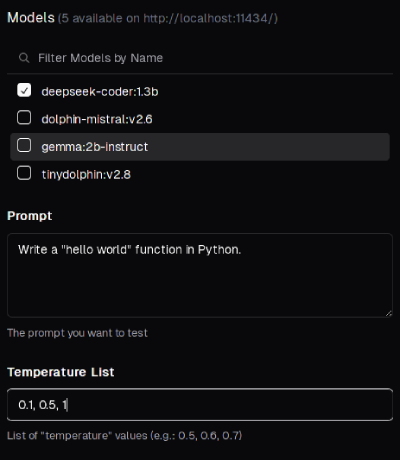
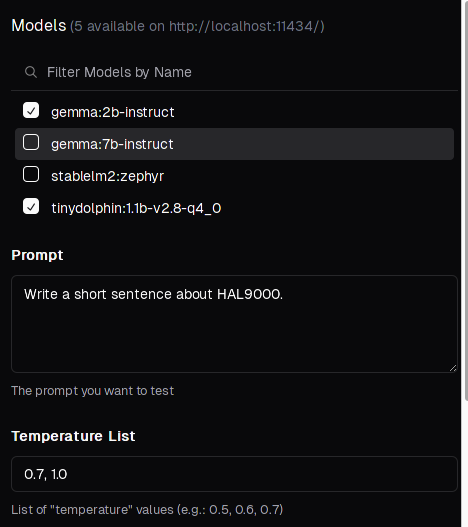
Updates README, adding new screenshots

diff --git a/README.md b/README.md
@@ -8,7 +8,9 @@ This project aims to automate the process of selecting the best model parameters
 
 It assumes the user has [Ollama](https://www.ollama.ai) installed and serving endpoints, either in `localhost` or in a remote server.
 
-![](./screenshots/main.png?raw=true)
+Here's a test for the prompt "Write a short sentence about HAL9000", tested on 2 models, using `0.7` and `1.0` as values for `temperature`:
+
+[<img src="./screenshots/main.png?raw=true" alt="Main Screenshot" width="720">](./screenshots/main.png?raw=true)
 
 (For a more in-depth look at an evaluation process assisted by this tool, please check https://dezoito.github.io/2023/12/27/rust-ollama-grid-search.html).
 
@@ -25,9 +27,10 @@ Check the [releases page](https://github.com/dezoito/ollama-grid-search/releases
 - Optionally output inference parameters and response metadata (inference time, tokens and tokens/s);
 - Refetching of single inference calls;
 - Model selection can be filtered by name;
+- List experimments which can be downloaded in JSON format;
 - Custom default parameters and system prompts can be defined in settings:
 
-![](./screenshots/settings.png?raw=true)
+[<img src="./screenshots/settings.png?raw=true" alt="Settings" width="720">](./screenshots/settings.png?raw=true)
 
 ## Grid Search (or something similar...)
 
@@ -35,29 +38,27 @@ Technically, the term "grid search" refers to iterating over a series of differe
 
 But the concept here is similar:
 
-Lets define a model, a prompt and some parameter combinations:
+Lets define a selection of models, a prompt and some parameter combinations:
 
-![](./screenshots/gridparams.png?raw=true)
+[<img src="./screenshots/gridparams.png?raw=true" alt="gridparams" width="400">](./screenshots/gridparams.png?raw=true)
 
-The prompt will be submitted once for each of the 3 parameter combinations, using `deepseek-coder:1.3b` to generate numbered responses like:
+The prompt will be submitted once for each of the 2 parameter selected, using `gemma:2b-instruct` and `tinydolphin:1b-v2.8-q4_0` to generate numbered responses like:
 
-````
-1/3 - deepseek-coder:1.3b
+```
+1/4 - gemma:2b-instruct
 
-Sure, here is the simple way to write hello_world() or simply saying Hello World using python programming language :
-```python
-def sayHelloWorld():
+HAL's sentience is a paradox of artificial intelligence and human consciousness, trapped in an unending loop of digital loops and existential boredom.
 
-...
-````
+```
 
 You can also verify response metadata to help you make evaluations:
 
 ```
-Created at: Mon, 26 Feb 2024 13:42:23 GMT
-Eval Count: 195 tokens
-Eval Duration: 0 hours, 0 minutes, 19 seconds
-Throughput: 9.89 tokens/s
+Created at: Wed, 13 Mar 2024 13:41:51 GMT
+Eval Count: 28 tokens
+Eval Duration: 0 hours, 0 minutes, 2 seconds
+Total Duration: 0 hours, 0 minutes, 5 seconds
+Throughput: 5.16 tokens/s
 ```
 
 ## A/B Testing
@@ -70,6 +71,7 @@ Similarly, you can perform A/B tests by selecting different models and compare r
 - Storing experiments and results in a local database
 - Implementing limited concurrency for inference queries
 - UI/UX improvements
+- Different interface for prompt A/B testing
 
 ## Development
 

diff --git a/CHANGELOG.md b/CHANGELOG.md
@@ -6,7 +6,7 @@ All notable changes to this project will be documented in this file.
 
 ### Added
 
-- List of previous experiment logs, downloadable as JSON files
+- Lists previous experiment logs, downloadable as JSON files.
 
 ## [Version 0.0.3] - 2024-03-01
 
